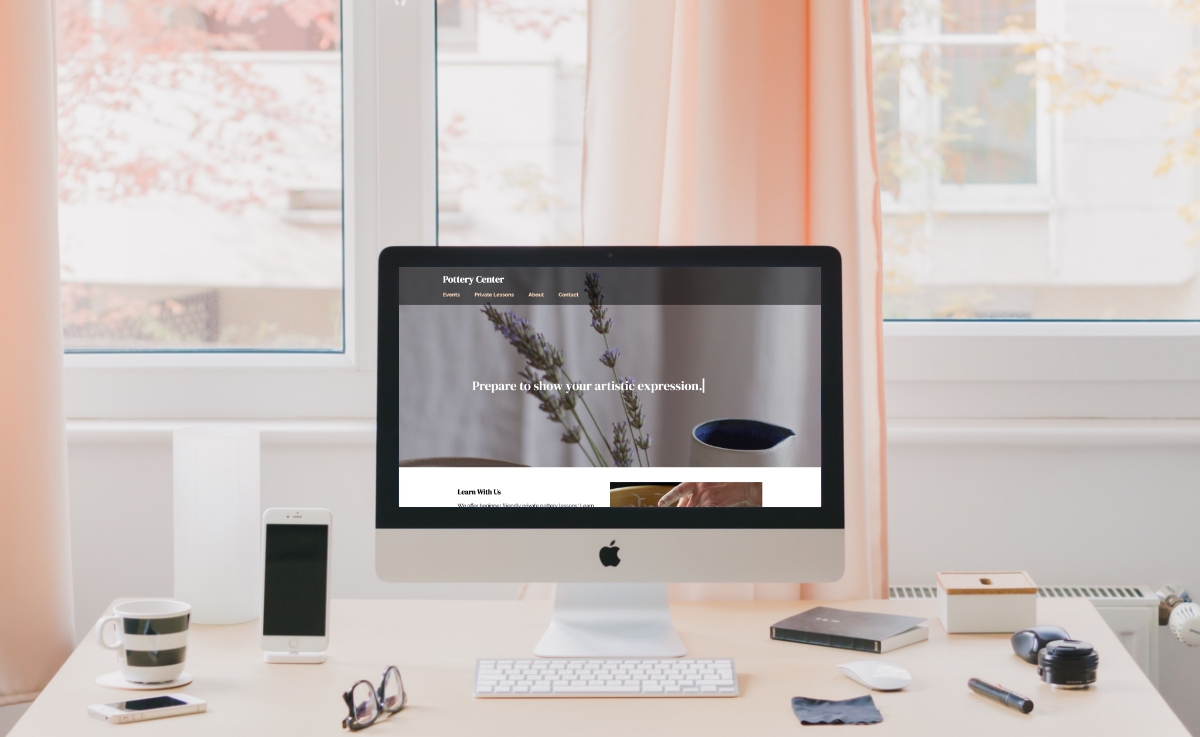
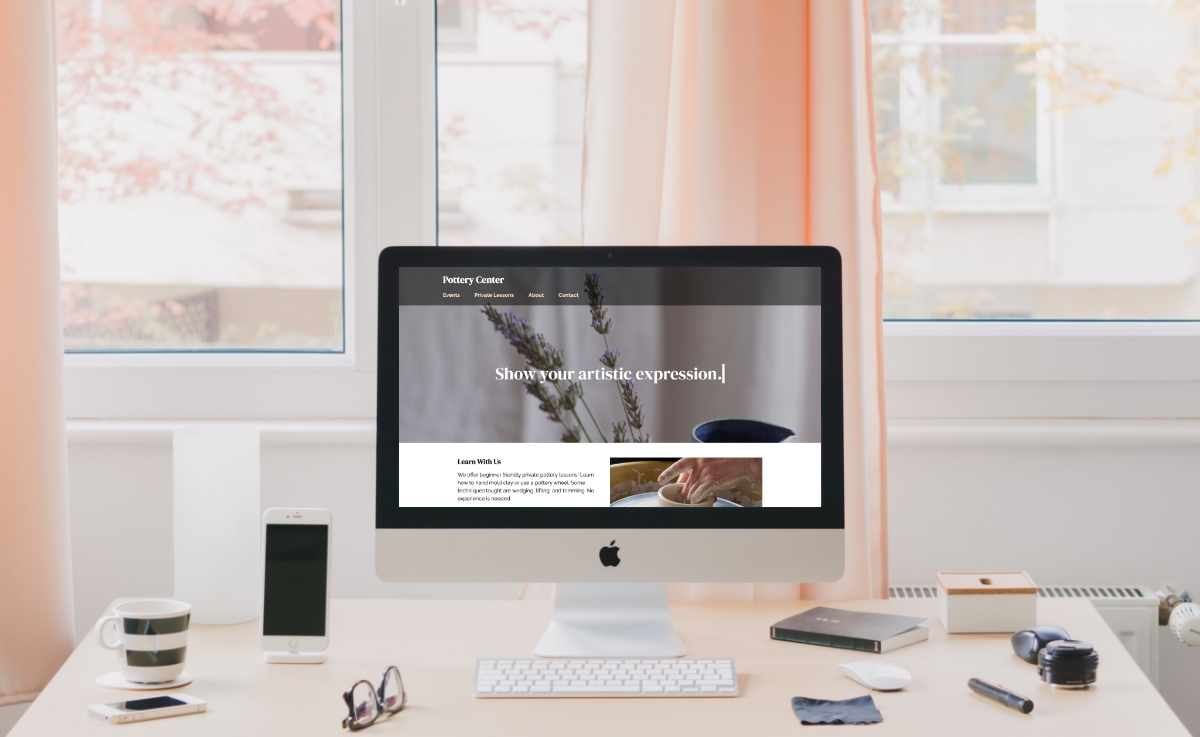
Add pottery center page

Changed region(s): [[0.3083, 0.5929, 0.7092, 0.6866], [0.4008, 0.4993, 0.6167, 0.5305], [0.37, 0.3745, 0.4317, 0.4057]]

diff --git a/potterycenter.html b/potterycenter.html
@@ -1,0 +1,200 @@
+<!DOCTYPE html>
+<html lang="en" dir="ltr">
+
+<head>
+
+  <meta charset="utf-8">
+  <meta name="viewport" content="width=device-width, initial-scale=1">
+  <title>Frontend Development: Pottery Website</title>
+  <link rel="icon" type="image/png" href="img/favicon.png" />
+
+  <link rel="stylesheet" type="text/css" href="https://cdnjs.cloudflare.com/ajax/libs/normalize/8.0.0/normalize.min.css">
+  <link rel="stylesheet" type="text/css" href="css/style.css">
+  <link rel="preconnect" href="https://fonts.gstatic.com">
+  <link href="https://fonts.googleapis.com/css2?family=Inter:wght@300;400;700&display=swap" rel="stylesheet">
+
+  <!-- Font Awesome kit code -->
+  <script src="https://kit.fontawesome.com/1a15afc35f.js" crossorigin="anonymous"></script>
+
+</head>
+
+<body>
+  <!-- Header Section -->
+  <header>
+
+    <div class="navbar">
+      <div class="navtoggle" id="myNavtoggle">
+        <a href="index.html"><img src="img/logo.svg" alt="Diana Southiphomma" class="logo"></a>
+
+        <nav>
+          <ul>
+            <li><a class="nav-link" href="index.html">Projects</a></li>
+            <li><a class="nav-link" href="about.html">About Me</a></li>
+            <li><a class="nav-link" href="#contact" onclick="menuToggle()">Contact</a></li>
+            <li><a href="javascript:void(0);" class="icon" onclick="menuToggle()"><i class="fas fa-bars"></i></a></li>
+          </ul>
+        </nav>
+
+      </div>
+    </div>
+
+  </header>
+
+  <!-- Hero Section -->
+  <main id="hero">
+
+    <div class="container">
+
+      <div>
+        <picture class="project">
+          <source srcset="img/potterycenter/potterycenter@1x.jpg" media="(max-width:767px)">
+          <img src="img/potterycenter/potterycenter@2x.jpg" alt="Pottery Website">
+        </picture>
+
+        <a href="https://dianasou.github.io/potterycenter/" class="button2">View Project Live</a>
+      </div>
+
+      <h2>Restaurant Website Project</h2>
+
+      <div class="row">
+        <div class="column col-md-6 col-lg-7">
+          <div>
+            <h3>Overview:</h3>
+            <p>This website was created for anyone that would want to learn more about pottery or what a pottery business offers.
+              It is a responsive website that was built using HTML, CSS, and Javascript.
+            </p>
+          </div>
+
+          <div>
+            <h3>Purpose:</h3>
+            <p>This project was created to advertise and inform users about a business that offers people lessons.
+              I felt that a pottery business website would be great because it feels artsy and creative.
+            </p>
+          </div>
+        </div>
+
+        <div class="column col-md-6 col-lg-5">
+          <div>
+            <h3>Role & Duration:</h3>
+            <p>2 weeks</p>
+            <ul>
+              <li>Frontend Developer</li>
+            </ul>
+          </div>
+
+          <div>
+            <h3>Tools and Languages:</h3>
+            <ul>
+              <li>HTML</li>
+              <li>CSS</li>
+              <li>Javascript</li>
+            </ul>
+          </div>
+        </div>
+
+      </div>
+
+      <div>
+        <h3>Objective:</h3>
+        <p><b>Problem</b> -  A problem that I found was some pottery websites were not visually appealing for a business that is usually for creative people.</p>
+        <p><b>Solution</b> - My goal was to create a beautiful, user-friendly website.
+          I wanted to create a layout that is a little more unique than I have tried before. </p>
+      </div>
+
+      <div>
+        <h3>Process and Solutions:</h3>
+        <p>My first steps included trying to create some branding for the business.
+          For headers, I picked a classic serif font that is clean and classy.
+          For the body, I picked a sans-serif font that is playful, but still easy to read.
+          A shade of black and white was paired as my background color and font color. Peach puff and terracotta were used as secondary colors.
+          They are friendly and welcoming colors. Terracotta is also a color people may associate with pottery.
+          It is especially a trendy color right now.
+        </p>
+
+        <p>Next, I created HTML to stucture my web pages.
+          I styled the pages with CSS and created breakpoints for various screen sizes.
+          I opted to use a background image that covers a portion behind the home page.
+          It peeks through just at the beginning of the page with a typewriter effect quote.
+          It acts as an attention grabber to bring interest to users.
+          Another feature I included was an underline from the center for the navigation links during hovering.
+          There is a drop-down menu for events separated by monthly events and workshops.
+          In reality, there would be text on the monthly events pages with the dates of the events.
+          I excluded that on the website to keep it relevant because dates too far out are strange and past dates seem outdated.
+          On the bottom of the home page, there is a grid of 3 for different services offered.
+        </p>
+
+        <p>Functionality for the hamburger menu navigation for mobile screens was built with JavaScript.
+          The navigation menu is pulled out from left to right of the screen.
+          A slideshow on the About page includes a slideshow that functions using JavaScript.
+        </p>
+      </div>
+
+      <div>
+        <h3>Challanges & Takeaways:</h3>
+        <p>There were also many problems with the background image that would disrupt the layout of certain pages and screen breakpoints.
+          Most of the problems were solved by doing research and experimenting first hand. I learned to keep trying.
+          I wanted to give up on using a background image, but I am glad I stuck with it because it gives the page a nice decoration that showcases beautiful pottery.
+        </p>
+      </div>
+
+    </div>
+
+  </main>
+
+  <!-- Footer Section -->
+  <footer id="contact">
+    <div class="container">
+
+      <h2>Get in Touch</h2>
+      <p>If you like my work and would like to discuss opportunities, please send me an email at <a href="mailto:dsouthiphomma@gmail.com">dsouthiphomma@gmail.com</a>.</p>
+
+      <div id="social">
+        <!--Social Media Icons-->
+        <a href="https://www.linkedin.com/in/dianasou/" target="_blank">
+          <svg enable-background="new 0 0 512 512" height="512px" id="Layer_1" version="1.1" viewBox="0 0 512 512" width="512px" xml:space="preserve" xmlns="http://www.w3.org/2000/svg" xmlns:xlink="http://www.w3.org/1999/xlink">
+            <g>
+              <linearGradient gradientUnits="userSpaceOnUse" id="SVGID_1_" x1="8.9756" x2="577.923" y1="-78.99" y2="557.6892">
+                <stop offset="0" style="stop-color:#517FA6" />
+                <stop offset="1" style="stop-color:#426699" />
+              </linearGradient>
+              <path d="M271.06,214.363v-0.525c-0.1,0.17-0.247,0.36-0.347,0.525H271.06z" fill="url(#SVGID_1_)" />
+              <linearGradient gradientUnits="userSpaceOnUse" id="SVGID_2_" x1="-20.1191" x2="548.8283" y1="-52.9904" y2="583.6888">
+                <stop offset="0" style="stop-color:#517FA6" />
+                <stop offset="1" style="stop-color:#426699" />
+              </linearGradient>
+              <path
+                d="M256,7.098C118.535,7.098,7.098,118.535,7.098,256c0,137.465,111.437,248.902,248.902,248.902   c137.465,0,248.902-111.437,248.902-248.902C504.902,118.535,393.465,7.098,256,7.098z M187.455,352.802h-53.822V190.89h53.822   V352.802z M160.554,168.794h-0.363c-18.058,0-29.755-12.445-29.755-27.992c0-15.886,12.052-27.969,30.465-27.969   c18.421,0,29.747,12.083,30.102,27.969C191.004,156.349,179.323,168.794,160.554,168.794z M381.564,352.805h-53.822v-86.627   c0-21.759-7.792-36.613-27.271-36.613c-14.875,0-23.725,10.008-27.624,19.687c-1.42,3.464-1.783,8.276-1.783,13.125v90.425h-53.83   c0,0,0.718-146.718,0-161.912h53.827v22.948c7.149-11.015,19.927-26.754,48.518-26.754c35.43,0,61.983,23.138,61.986,72.871   V352.805z"
+                fill="url(#SVGID_2_)" />
+            </g>
+          </svg>
+        </a>
+        <a href="https://www.behance.net/dsouthiphomma" target="_blank">
+          <svg enable-background="new 0 0 512 512" id="Layer_2" version="1.1" viewBox="0 0 512 512" xml:space="preserve" xmlns="http://www.w3.org/2000/svg" xmlns:xlink="http://www.w3.org/1999/xlink">
+            <g>
+              <path d="M512,256c0,141.4-114.6,256-256,256S0,397.4,0,256S114.6,0,256,0C397.4,0,512,114.6,512,256z" fill="#1769FF" />
+              <g>
+                <rect fill="#FFFFFF" height="19.4" width="83.6" x="295.3" y="169.2" />
+                <path
+                  d="M228.5,247.3c6.5-3.3,11.4-7,14.7-11c5.9-7.1,8.9-16.6,8.9-28.3c0-11.4-2.9-21.2-8.8-29.4    c-9.8-13.3-26.4-20.2-49.9-20.5h-93v192.5h86.7c9.8,0,18.8-0.9,27.2-2.6c8.3-1.7,15.6-5,21.7-9.7c5.5-4.1,10-9.1,13.6-15.1    c5.7-9.1,8.6-19.3,8.6-30.7c0-11.1-2.5-20.5-7.5-28.2C245.7,256.6,238.3,250.9,228.5,247.3z M138.7,191.6h41.9    c9.2,0,16.8,1,22.7,3c6.9,2.9,10.3,8.8,10.3,17.8c0,8.1-2.6,13.7-7.8,16.9s-12,4.8-20.4,4.8h-46.8v-42.5H138.7z M204.9,313.8    c-4.6,2.3-11.1,3.4-19.5,3.4h-46.7v-51.3h47.4c8.3,0.1,14.7,1.2,19.2,3.3c8.2,3.7,12.3,10.6,12.3,20.6    C217.6,301.6,213.4,309.6,204.9,313.8z"
+                  fill="#FFFFFF" />
+                <path
+                  d="M409,261.7c-1.7-11.2-5.5-21-11.3-29.4c-6.5-9.6-14.7-16.6-24.6-21.1s-21.1-6.7-33.5-6.7    c-20.9,0-37.8,6.6-50.9,19.7c-13.1,13.2-19.6,32.1-19.6,56.7c0,26.3,7.2,45.3,21.7,57s31.2,17.5,50.1,17.5    c22.9,0,40.8-6.9,53.6-20.8c8.2-8.7,12.8-17.3,13.8-25.7h-38c-2.2,4.2-4.8,7.4-7.7,9.8c-5.3,4.3-12.2,6.5-20.7,6.5    c-8,0-14.8-1.8-20.5-5.4c-9.4-5.7-14.3-15.8-14.9-30h103.7C410.4,277.6,410,268.2,409,261.7z M307.5,265.4    c1.3-9.3,4.6-16.6,9.9-22s12.7-8.1,22.2-8.1c8.8,0,16.1,2.6,22.1,7.7c5.9,5.1,9.2,12.6,9.9,22.5L307.5,265.4L307.5,265.4z"
+                  fill="#FFFFFF" />
+              </g>
+            </g>
+          </svg>
+        </a>
+      </div>
+
+      <p id="copyright">&copy; Diana Southiphomma 2021</p>
+
+    </div>
+  </footer>
+
+  <!--JS file-->
+  <script src="https://code.jquery.com/jquery-3.6.0.min.js" integrity="sha256-/xUj+3OJU5yExlq6GSYGSHk7tPXikynS7ogEvDej/m4=" crossorigin="anonymous"></script>
+  <script src="js/script.js"></script>
+
+</body>
+
+</html>

diff --git a/index.html b/index.html
@@ -64,11 +64,11 @@
           </picture>
 
           <div class="img-overlay">
-            <a href=# class="img-link">
+            <a href="potterycenter.html" class="img-link" target="_blank">
               <p class="project-title"><b>Pottery Website</b></p>
               <p class="text-overlay">This website was built with HTML, CSS, and Javascript.
                 It advertises the services a pottery business might offer.</p>
-              <p class="button">COMING SOON</p>
+              <p class="button">View Project</p>
             </a>
           </div>
         </div>
@@ -115,7 +115,7 @@
             <a href="https://codepen.io/dsou/full/OJLwRJV" class="img-link" target="_blank">
               <p class="project-title"><b>Harry Potter Tribute Page</b></p>
               <p class="text-overlay">This is a web page I created as a tribute to Harry Potter using HTML and CSS.</p>
-              <p class="button">View Project</p>
+              <p class="button">View Project Live</p>
             </a>
           </div>
         </div>

diff --git a/css/style.css b/css/style.css
@@ -393,6 +393,7 @@ svg {
   transition: 0.2s opacity;
   text-align: center;
   justify-content: center;
+  margin-top: 10px;
 }
 
 .button2:visited {
